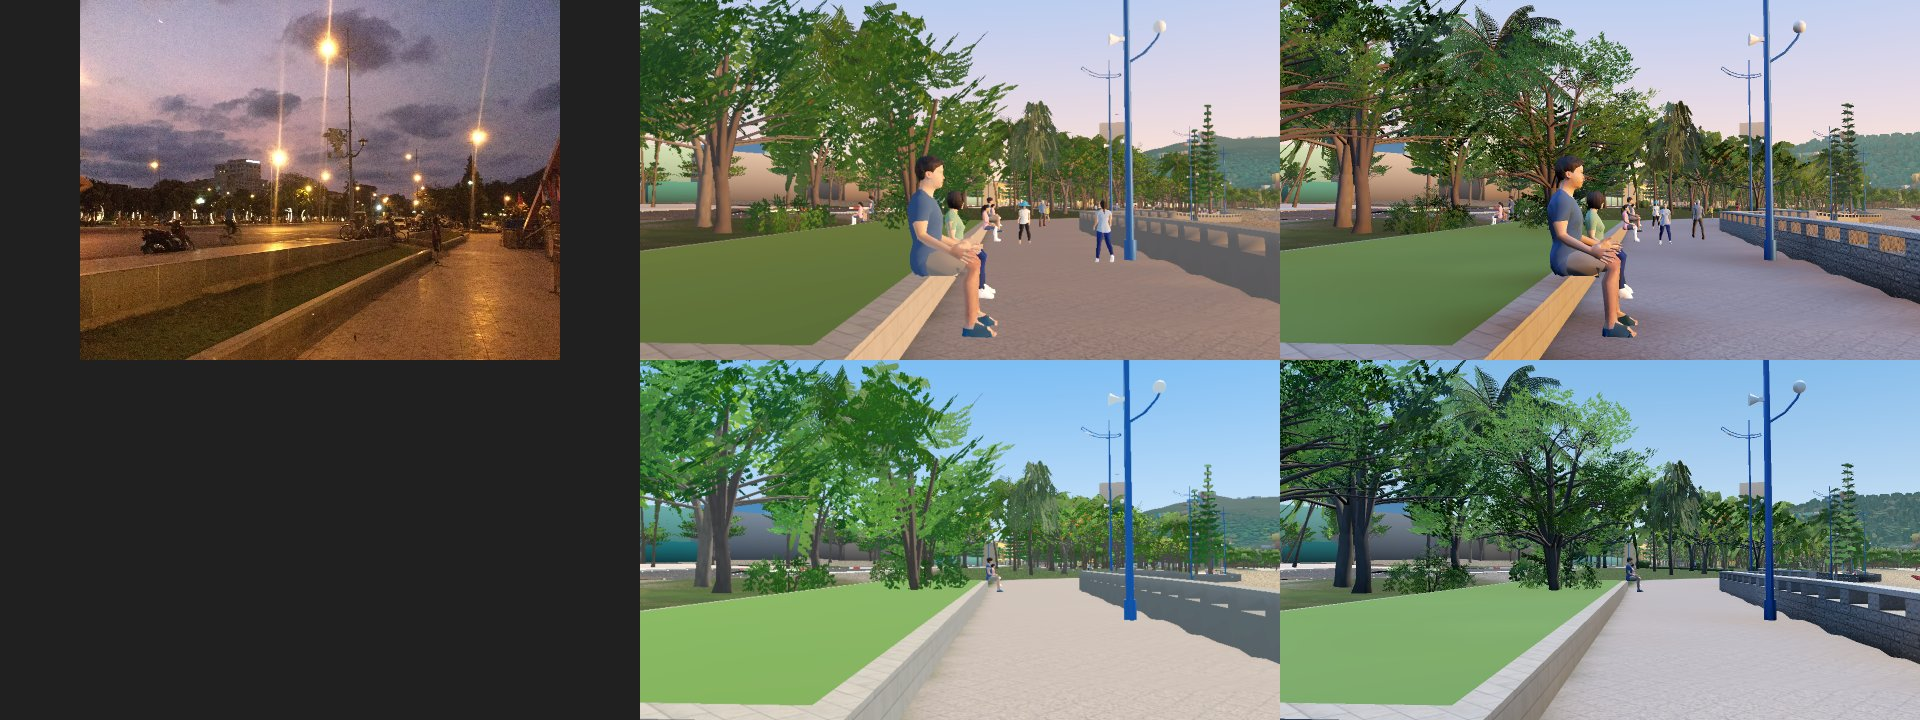
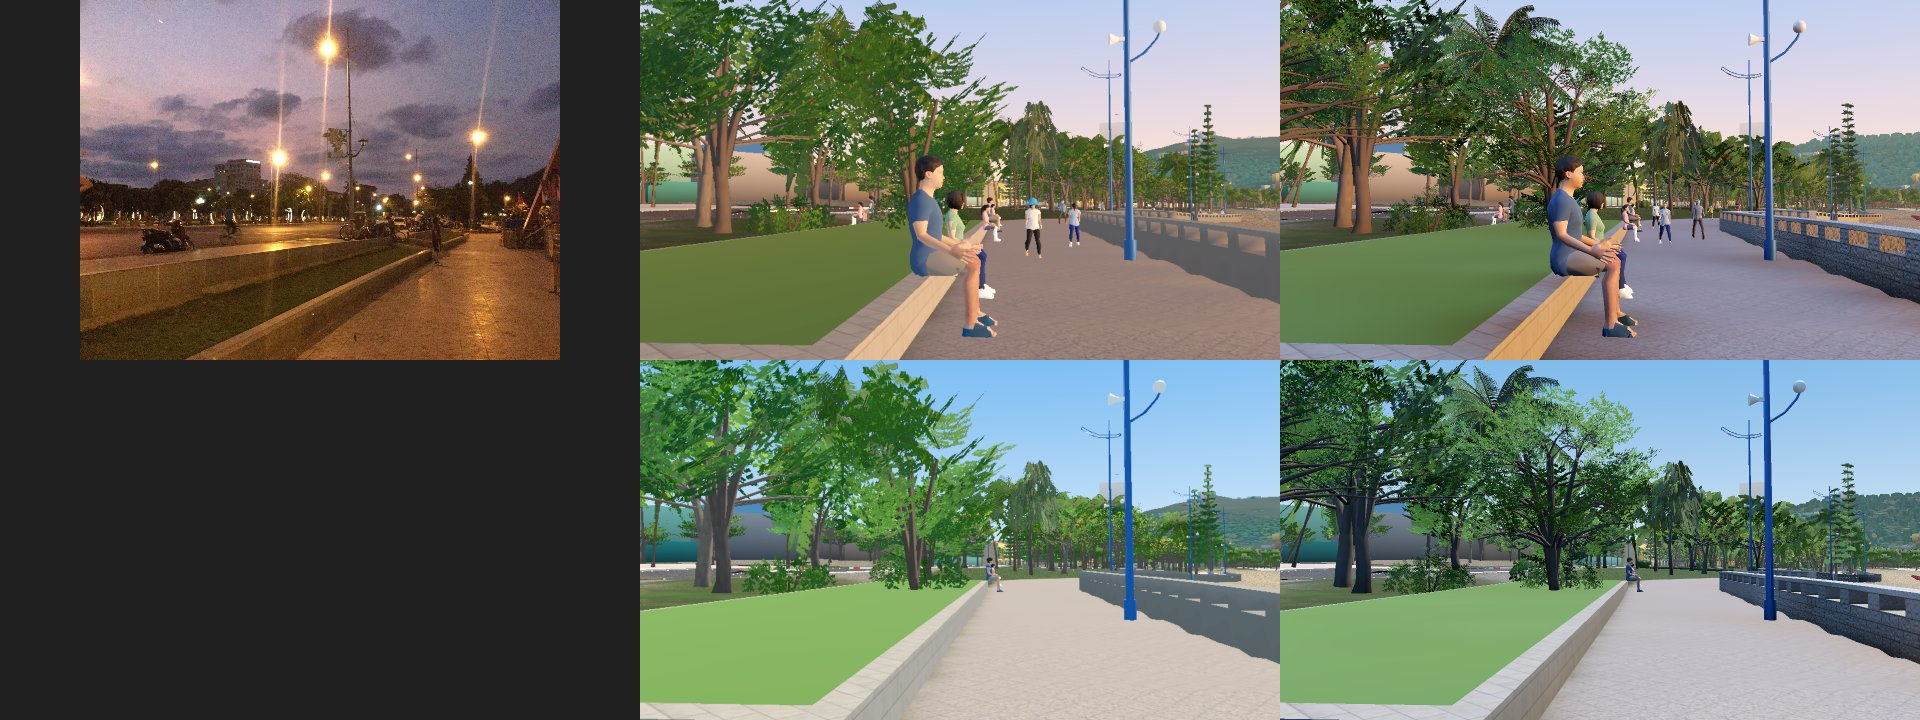
Make the five shots of plan 0026 again with the boxes of the raster and the land of the mainland
PT-72 passes in each run. S3 shows 12 boxes of the town behind Cảng vụ.
The value of the hill of S1 (Q8) stays open, as in audit 4.

diff --git a/docs/plans/0009-houses-on-the-lots.md b/docs/plans/0009-houses-on-the-lots.md
@@ -269,4 +269,4 @@ Each source of the data of this plan, also the ones that the plan does not use, 
   - **D-0009-25 and Q13 (the job "Models of World").** The test of R4 compares only the levels that the factory gives. A level that the factory refuses for memory (HTTP 422) goes in the log with its model and the message, and the test does not fail for it; any other error fails it (`fetch.factory_files(..., refused=)`, two unit tests). Each refused level and the count of the files that it compared are warnings of pytest, so they show in the log of `pytest -q` (a print did not show there). In the workspace: 15 files are the same, and the factory refused none. When World gives the files of its catalog with no build, the test compares all levels again. The lock of World did not change.
   - **D-0009-26 (the cart of the test hẻm).** In soak run 2, the cart `mia` came at its hour (10:00) to the place where the player stood, and the player was in its solid. Now a cart waits while the player stands in its place (`Hem.player_at`, `_stands_in()`: the box shapes of the cart, grown by the radius of the player), and comes when the player goes. The last run of the soak walks to the place before 10:00, waits to 10:00 (no overlap, no cart), walks away, and checks at 10:01 that the cart is there with no overlap. Without the correction the step failed.
   - **Q12.** The rule is in section 5, phase 3. Nothing is built for it now.
-  - **The views and the shots.** The views of PT-68 and their photos are in `docs/town/`; the five shots of plan 0026 are in `docs/showcase/`. The work stops here: you look at the views before phase 3.
+  - **The views and the shots.** The views of PT-68 and their photos are in `docs/town/`; the five shots of plan 0026 are in `docs/showcase/` (PT-72, each run made one at a time, then the run of the sheets: all pass). S3: 12 boxes of the town show behind Cảng vụ (7 before: the boxes of the raster at Trương Công Định). S1 (Q8, open): at 12:00 on Low the saturation of the hill is 0.05 from the photo, as in audit 4; the other values of the hill are in their limits. The work stops here: you look at the views before phase 3.
